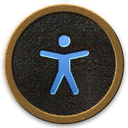
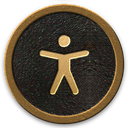
Accessibility badge symbol in polished brass instead of blue

Changed region(s): [[0.2812, 0.375, 0.7188, 0.75], [0.4375, 0.25, 0.5625, 0.375]]

diff --git a/css/a11y.css b/css/a11y.css
@@ -1,6 +1,6 @@
 /* תפריט הנגישות (js/../a11y.js) ומצבי הנגישות כמחלקות על html. */
 .a11y{position:fixed;bottom:calc(16px + env(safe-area-inset-bottom,0px));inset-inline-end:16px;z-index:26}
-/* הכפתור: דיסקית ברזל עם שפת פליז וסמל באמייל כחול, כמו כפתור הוואטסאפ (site/brand/a11y-metal-*.png, tools/images/badge.py) */
+/* הכפתור: דיסקית ברזל עם שפת פליז וסמל בפליז מלוטש, כמו כפתור הוואטסאפ (site/brand/a11y-metal-*.png, tools/images/badge.py) */
 .a11y-btn{width:56px;height:56px;padding:0;border:0;border-radius:50%;background:none;display:block;cursor:pointer;-webkit-tap-highlight-color:transparent}
 .a11y-btn img{width:100%;height:100%;display:block;transition:transform .2s var(--ease);filter:drop-shadow(0 8px 14px rgb(0 0 0/.45))}
 .a11y-btn:active img{transform:scale(.94)}
